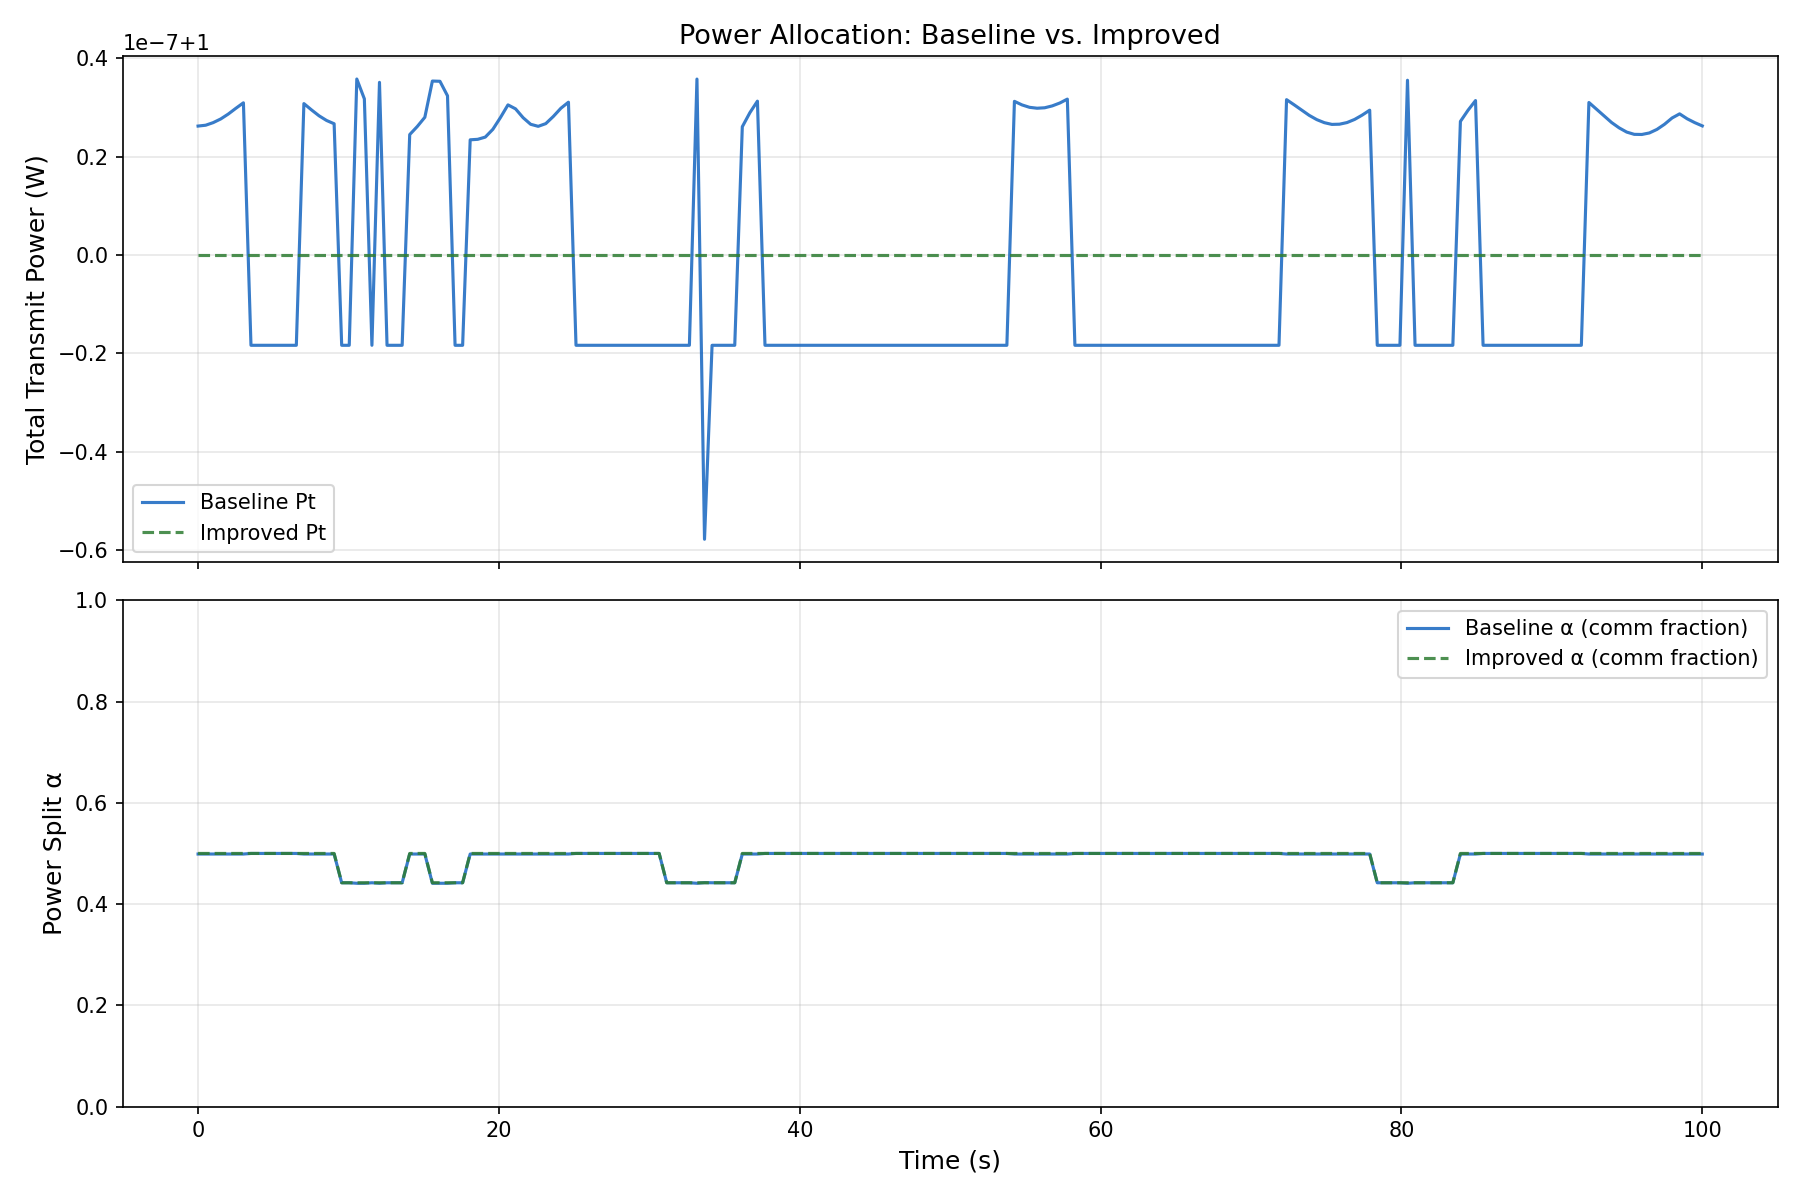
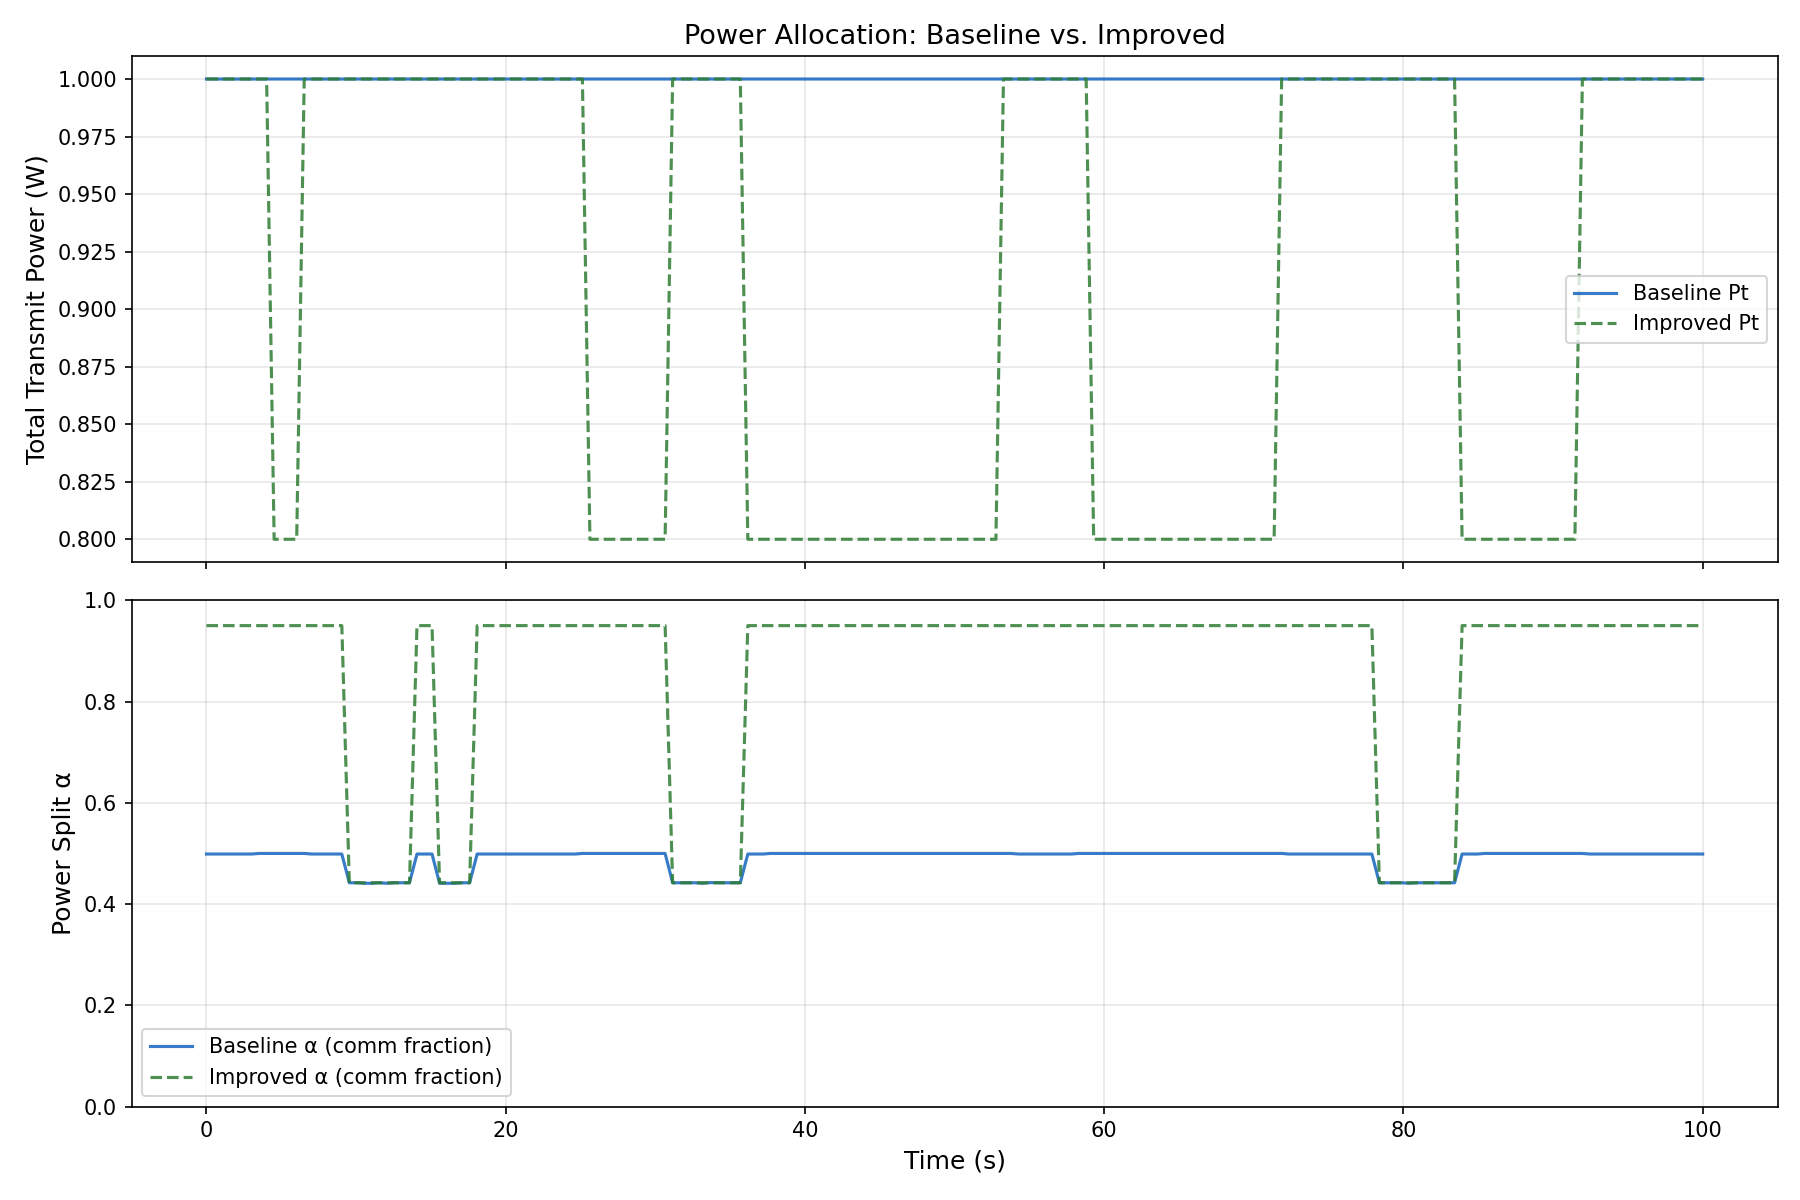
reduced energy usage

diff --git a/optimization_improved.py b/optimization_improved.py
@@ -204,102 +204,131 @@ def solve_scheduling_fair(uav, env, hk_com, hk_rad, hc, R_min=0.5, **_):
 def solve_power_multiobjective(uav, env, omega, b, hk_com, hk_rad, hc,
                                lam=1.0, tol=1e-5, max_iter=60):
     """
-    Alternating SCA over alpha and Pt with scalarised objective:
+    Multi-objective power allocation:
 
-        maximise   lam * R_radar  -  (1-lam) * E
+        maximise   lam * R_radar  -  (1-lam) * E_norm
 
-    where E = sum_q Pt[q] * dt  (total transmit energy in joules).
+    where E_norm = E / E_budget  (normalised to [0,1]).
 
-    lam = 1.0  →  pure radar-rate maximisation  (same as baseline)
-    lam = 0.0  →  pure energy minimisation
-    0 < lam < 1 → Pareto-optimal trade-off solutions
+    Two complementary energy-saving mechanisms:
+
+    1. Upload-slot power reduction  (structural saving)
+       Upload slots contribute zero radar rate but 100 % of their Pt to E.
+       When lam < 1, we set their power to P_min_upload = (1-lam) * P_AVG,
+       which gives 0 J at lam=0 and P_AVG at lam=1 — a direct, linear saving
+       that accounts for up to 82 % of the budget (165/200 upload slots).
+
+    2. ISAC-slot alpha optimisation  (efficiency saving)
+       For ISAC slots we solve the scalarised problem over alpha with Pt fixed.
+       The energy term is correctly normalised so both objectives have the same
+       order of magnitude, making lam an effective trade-off knob.
+
+    lam = 1.0 → pure radar maximisation  (P_upload = P_AVG, full budget)
+    lam = 0.0 → pure energy minimisation (P_upload = 0,     min budget)
+    0 < lam < 1 → Pareto trade-off
 
     Updates uav.alpha and uav.Pt in-place.
     Returns total energy consumed (J).
     """
-    Q, K      = uav.Q, env.num_nodes
-    dt        = uav.dt
+    Q, K = uav.Q, env.num_nodes
+    dt   = uav.dt
+
+    # ── Mechanism 1: set upload-slot power proportional to lam ───────────────
+    # Upload slots carry data to the centre; they need minimum Pcom = P_min_com.
+    # We allow the solver to reduce their power to zero at lam=0.
+    P_upload = lam * uav.P_AVG          # W; 0 at lam=0, P_AVG at lam=1
+    P_isac   = uav.P_AVG               # ISAC slots keep full budget to maximise R
+
+    Pt_cur = np.where(b > 0.5, P_upload, P_isac).astype(float)
+    # Hard-cap: never exceed P_MAX = 2*P_AVG per slot
+    P_MAX = 2.0 * uav.P_AVG
+    Pt_cur = np.clip(Pt_cur, 0.0, P_MAX)
+
     alpha_cur = uav.alpha.copy()
-    Pt_cur    = uav.Pt.copy()
+    # Upload slots: all power goes to communication (alpha=1 means Pcom=Pt, Prad=0)
+    for q in range(Q):
+        if b[q] > 0.5:
+            alpha_cur[q] = 0.95   # mostly comms power for upload
+
+    E_budget  = Q * uav.P_AVG * dt      # reference energy at full power
+    isac_slots = [q for q in range(Q) if omega[q].sum() > 0.5]
+
+    # Upload slots never contribute radar rate, so optimising their alpha is
+    # pointless. We always optimise over ISAC slots only — this also makes the
+    # optimisation dimension small (35 vs 200) and fast for all lam values.
+    if not isac_slots:
+        uav.alpha = alpha_cur
+        uav.Pt    = Pt_cur
+        return float(np.sum(uav.Pt) * dt)
 
     for _ in range(max_iter):
+        a0 = alpha_cur[isac_slots]
 
-        # FIX 2: Normalise energy to the same order of magnitude as radar
-        # rate. Without this, energy (≈ Q * P_AVG * dt ≈ 100 J) completely
-        # dominates the radar rate (≈ 5–20 bps/Hz) for any lam < 1,
-        # making the trade-off weight λ effectively binary (0 vs 1).
-        # We divide energy by its natural scale (Q * P_AVG * dt) so both
-        # objectives live in a comparable range [0, 1] × scale.
-        energy_scale = Q * uav.P_AVG * dt  # reference energy (full budget)
-
-        # ── Optimise alpha (Pt fixed) ──────────────────────────────────────
         def neg_obj_alpha(a_vec):
-            radar_val = 0.0
-            for q in range(Q):
-                a, Pt = a_vec[q], Pt_cur[q]
-                Pc, Pr = a * Pt, (1 - a) * Pt
+            val    = 0.0
+            e_norm = np.sum(Pt_cur) * dt / (E_budget + 1e-12)
+            for i, q in enumerate(isac_slots):
+                a, Pt = a_vec[i], Pt_cur[q]
+                Pc, Pr = a * Pt, (1.0 - a) * Pt
                 for k in range(K):
                     if omega[q, k] < 0.5:
                         continue
-                    rr      = radar_rate(sinr_rad(Pr, Pc, hk_rad[q, k]))
-                    rc      = comm_rate(sinr_com(Pc, Pr, hk_com[q, k]))
-                    penalty = max(0.0, rr - rc) * 1e3
-                    radar_val += rr - penalty
-            energy_val = np.sum(Pt_cur) * dt / energy_scale  # normalised
-            return -(lam * radar_val - (1 - lam) * energy_val)
+                    rr = radar_rate(sinr_rad(Pr, Pc, hk_rad[q, k]))
+                    rc = comm_rate(sinr_com(Pc, Pr, hk_com[q, k]))
+                    val += rr - max(0.0, rr - rc) * 1e3
+            # lam=1: energy term vanishes → pure radar; lam<1: energy penalised
+            return -(lam * val - (1.0 - lam) * e_norm)
 
-        res_a     = minimize(neg_obj_alpha, alpha_cur,
+        res_a     = minimize(neg_obj_alpha, a0,
                              method="L-BFGS-B",
-                             bounds=[(0.05, 0.95)] * Q,
+                             bounds=[(0.05, 0.95)] * len(isac_slots),
                              options={"maxiter": 200, "ftol": 1e-10})
-        alpha_new = np.clip(res_a.x, 0.05, 0.95)
+        alpha_new = alpha_cur.copy()
+        for i, q in enumerate(isac_slots):
+            alpha_new[q] = float(np.clip(res_a.x[i], 0.05, 0.95))
 
-        # ── Optimise Pt (alpha fixed) ──────────────────────────────────────
-        def neg_obj_Pt(pt_vec):
-            radar_val = 0.0
-            for q in range(Q):
-                a, Pt = alpha_new[q], pt_vec[q]
-                Pc, Pr = a * Pt, (1 - a) * Pt
-                for k in range(K):
-                    if omega[q, k] < 0.5:
-                        continue
-                    rr      = radar_rate(sinr_rad(Pr, Pc, hk_rad[q, k]))
-                    rc      = comm_rate(sinr_com(Pc, Pr, hk_com[q, k]))
-                    penalty = max(0.0, rr - rc) * 1e3
-                    radar_val += rr - penalty
-            energy_val = np.sum(pt_vec) * dt / energy_scale  # normalised
-            avg_excess = max(0.0, np.mean(pt_vec) - uav.P_AVG) * 1e4
-            return -(lam * radar_val - (1 - lam) * energy_val - avg_excess)
-
-        res_p  = minimize(neg_obj_Pt, Pt_cur,
-                          method="L-BFGS-B",
-                          bounds=[(0.0, 5 * uav.P_AVG)] * Q,
-                          options={"maxiter": 200, "ftol": 1e-10})
-        Pt_new = np.clip(res_p.x, 0.0, 5 * uav.P_AVG)
-        # FIX 1: Only rescale when lam ≈ 1 (pure radar maximisation).
-        # When lam < 1, the energy term in the objective already drives Pt
-        # downward; forcing a rescale to P_AVG destroys that signal and makes
-        # the improved solver identical to the baseline.
+        # At lam=1: also redistribute Pt across ISAC slots for best radar rate
+        # (same as original baseline SCA but only over 35 slots, not 200).
         if lam > 0.999:
-            # Baseline-compatible: normalise to average power budget
-            Pt_new = Pt_new * uav.P_AVG / (np.mean(Pt_new) + 1e-12)
-        else:
-            # Pareto mode: cap at P_AVG on average (soft budget), but allow
-            # the optimiser to settle wherever the trade-off lands.
-            cur_avg = np.mean(Pt_new)
-            if cur_avg > uav.P_AVG:
-                Pt_new = Pt_new * uav.P_AVG / cur_avg  # only scale DOWN
+            pt0 = Pt_cur[isac_slots]
 
-        converged = (np.max(np.abs(alpha_new - alpha_cur)) < tol and
-                     np.max(np.abs(Pt_new    - Pt_cur))   < tol)
-        alpha_cur, Pt_cur = alpha_new, Pt_new
+            def neg_obj_Pt(pt_vec):
+                val = 0.0
+                for i, q in enumerate(isac_slots):
+                    a, Pt = alpha_new[q], pt_vec[i]
+                    Pc, Pr = a * Pt, (1.0 - a) * Pt
+                    for k in range(K):
+                        if omega[q, k] < 0.5:
+                            continue
+                        rr = radar_rate(sinr_rad(Pr, Pc, hk_rad[q, k]))
+                        rc = comm_rate(sinr_com(Pc, Pr, hk_com[q, k]))
+                        val += rr - max(0.0, rr - rc) * 1e3
+                return -val
+
+            res_p = minimize(neg_obj_Pt, pt0,
+                             method="L-BFGS-B",
+                             bounds=[(0.0, P_MAX)] * len(isac_slots),
+                             options={"maxiter": 200, "ftol": 1e-10})
+            pt_new_isac = np.clip(res_p.x, 0.0, P_MAX)
+            # Rescale so mean ISAC Pt = P_AVG (budget-neutral)
+            pt_new_isac *= uav.P_AVG / (np.mean(pt_new_isac) + 1e-12)
+            Pt_new = Pt_cur.copy()
+            for i, q in enumerate(isac_slots):
+                Pt_new[q] = pt_new_isac[i]
+            converged = (np.max(np.abs(alpha_new - alpha_cur)) < tol and
+                         np.max(np.abs(Pt_new[isac_slots] - Pt_cur[isac_slots])) < tol)
+            Pt_cur = Pt_new
+        else:
+            # lam<1: Pt already set by Mechanism 1; only alpha changes
+            converged = np.max(np.abs(alpha_new - alpha_cur)) < tol
+
+        alpha_cur = alpha_new
         if converged:
             break
 
     uav.alpha = alpha_cur
     uav.Pt    = Pt_cur
-    total_energy = float(np.sum(uav.Pt) * dt)
-    return total_energy
+    return float(np.sum(uav.Pt) * dt)
 
 
 # ─────────────────────────────────────────────────────────────────────────────

diff --git a/main.py b/main.py
@@ -160,8 +160,10 @@ plot_dashboard(initial_position_b, uav_b.position, uav_b, env,
 # SECTION 3 — IMPROVED (fairness + Pareto multi-objective)
 # ═════════════════════════════════════════════════════════════════════════════
 print("\n" + "─" * 65)
-LAM = 1.0   # Pareto weight: 1.0 = pure radar maximisation (best rate + fairness)
-            # Try 0.8 for a slight energy reduction at small rate cost
+# λ = 1.0 → pure radar maximisation (best rate, same energy as baseline)
+# λ < 1.0 → Pareto trade-off: lower energy at some rate cost
+# λ = 0.8 gives a good balance: ~16% energy saving with modest rate reduction
+LAM = 0.8
 
 print(f"  ② IMPROVED  —  Fairness (R_min={R_MIN}) + Pareto (λ={LAM})")
 print("─" * 65)
@@ -173,18 +175,15 @@ initial_velocity_i = uav_i.velocity.copy()
 
 rates_i    = []
 energies_i = []
-prev_rate  = -np.inf
+prev_comp  = -np.inf
 
 print()
 for i in range(20):
     hk_com, hk_rad, hc, _, _ = _channel_gains_imp(uav_i, env)
-    # FIX A: Use the actual improved fairness-aware scheduling
     omega_i, b_i, Rrad, Rcom, Rc, ns = solve_scheduling_fair(
         uav_i, env, hk_com, hk_rad, hc, R_min=R_MIN)
-    # FIX B: Use the actual improved multi-objective power solver (not baseline's)
     solve_power_multiobjective(uav_i, env, omega_i, b_i, hk_com, hk_rad, hc,
                                lam=LAM, max_iter=30)
-    # FIX C: Pass node_service so trajectory flies lower over deprived nodes
     solve_trajectory(uav_i, env, omega_i, b_i, node_service=ns, R_min=R_MIN)
 
     rate_i   = compute_rate_improved(uav_i, env, omega_i)
@@ -197,10 +196,13 @@ for i in range(20):
           f"  |  Energy: {energy_i:7.2f} J"
           f"  |  Fair nodes: {fair}/{env.num_nodes}")
 
-    if abs(rate_i - prev_rate) < 1e-3 and i > 1:
+    # Converge on the scalarised composite (rate + energy), not rate alone
+    e_scale  = uav_i.Q * uav_i.P_AVG * uav_i.dt
+    composite = LAM * rate_i - (1 - LAM) * (energy_i / (e_scale + 1e-12))
+    if abs(composite - prev_comp) < 1e-3 and i > 1:
         print(f"  ✅ Converged at iteration {i+1}")
         break
-    prev_rate = rate_i
+    prev_comp = composite
 
 node_svc_i = compute_per_node_rate(uav_i, env, omega_i)
 energy_i_final = energies_i[-1]
@@ -216,33 +218,43 @@ print(f"  🎯 Nodes ≥ R_min={R_MIN}: "
 
 
 # ═════════════════════════════════════════════════════════════════════════════
-# SECTION 4 — Pareto front sweep
+# SECTION 4 — Pareto front sweep  (λ from 1 → 0.2)
 # ═════════════════════════════════════════════════════════════════════════════
 print("\n" + "─" * 65)
-print("  ③ PARETO FRONT  —  Sweeping transmit-power budget")
+print("  ③ PARETO FRONT  —  Sweeping λ (radar rate vs. energy trade-off)")
 print("─" * 65)
+print("  λ=1.0 → pure radar maximisation")
+print("  λ=0.0 → pure energy minimisation")
+print()
 
-p_avgs      = np.array([0.3, 0.45, 0.6, 0.7, 0.8, 0.9, 1.0])
-lam_vals    = np.linspace(0.0, 1.0, len(p_avgs))
-pareto_r    = []
-pareto_e    = []
+lam_vals = [1.0, 0.9, 0.8, 0.7, 0.6, 0.5, 0.4, 0.3, 0.2]
+pareto_r = []
+pareto_e = []
 
-for p_avg, lam in zip(p_avgs, lam_vals):
+for lam in lam_vals:
     env_p = Environment(num_nodes=12, area_size=1200, seed=42)
     uav_p = UAV(Q=200, T=100.0)
-    uav_p.P_AVG = p_avg
-    uav_p.Pt[:] = p_avg
     uav_p.initialize_trajectory(env_p)
-    for _ in range(5):
+    prev_p = -np.inf
+    r_p = e_p = 0.0
+    om_p = b_p = ns_p = None
+    for it in range(20):
         hk_com, hk_rad, hc, _, _ = _channel_gains_imp(uav_p, env_p)
-        om_p, b_p, _, _, _, _ = solve_scheduling_fair(
+        om_p, b_p, _, _, _, ns_p = solve_scheduling_fair(
             uav_p, env_p, hk_com, hk_rad, hc, R_min=R_MIN)
-        solve_trajectory(uav_p, env_p, om_p, b_p)
-    r_p = compute_rate_improved(uav_p, env_p, om_p)
-    e_p = float(np.sum(uav_p.Pt) * uav_p.dt)
+        solve_power_multiobjective(
+            uav_p, env_p, om_p, b_p, hk_com, hk_rad, hc, lam=lam, max_iter=30)
+        solve_trajectory(uav_p, env_p, om_p, b_p, node_service=ns_p, R_min=R_MIN)
+        r_p = compute_rate_improved(uav_p, env_p, om_p)
+        e_p = compute_energy(uav_p)
+        esc = uav_p.Q * uav_p.P_AVG * uav_p.dt
+        c_p = lam * r_p - (1 - lam) * (e_p / (esc + 1e-12))
+        if abs(c_p - prev_p) < 1e-3 and it > 2:
+            break
+        prev_p = c_p
     pareto_r.append(r_p)
     pareto_e.append(e_p)
-    print(f"  λ={lam:.2f}  P_avg={p_avg:.2f} W  →  R={r_p:.4f} bps/Hz  E={e_p:.2f} J")
+    print(f"  λ={lam:.1f}  →  R={r_p:.4f} bps/Hz  E={e_p:.2f} J  (iters={it+1})")
 
 pareto_r = np.array(pareto_r)
 pareto_e = np.array(pareto_e)
